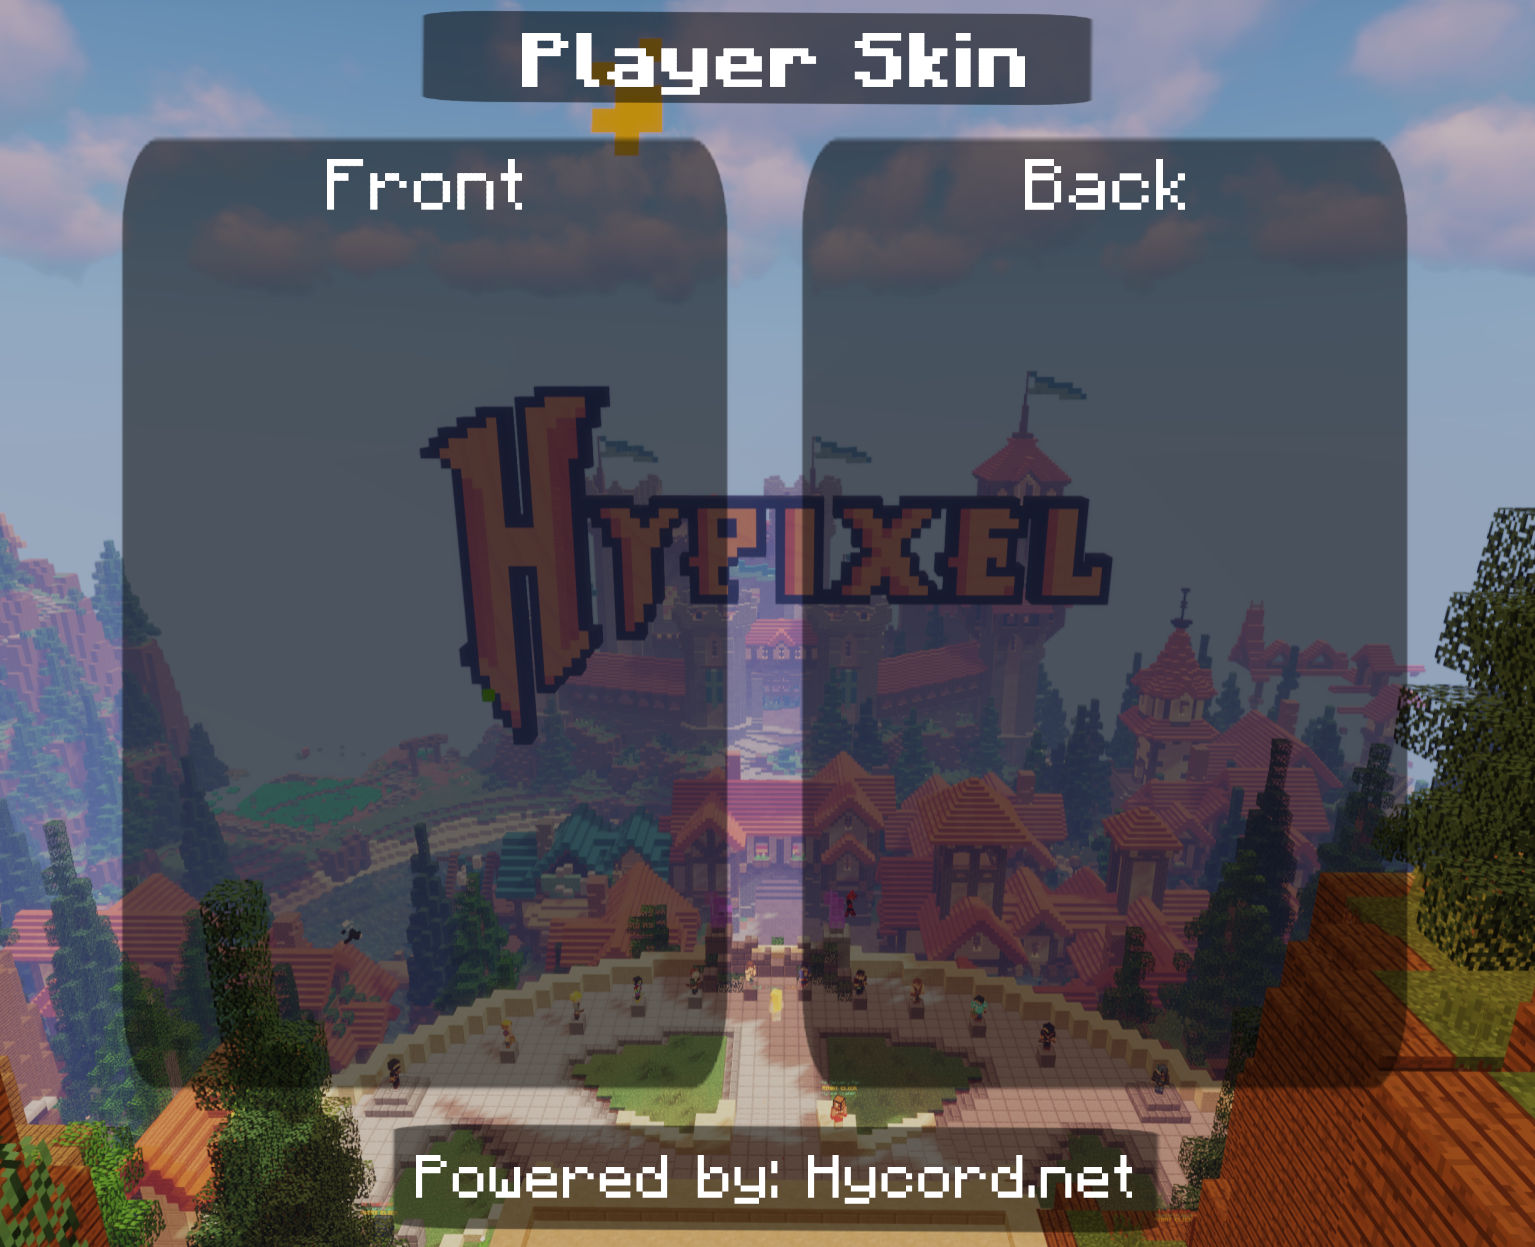
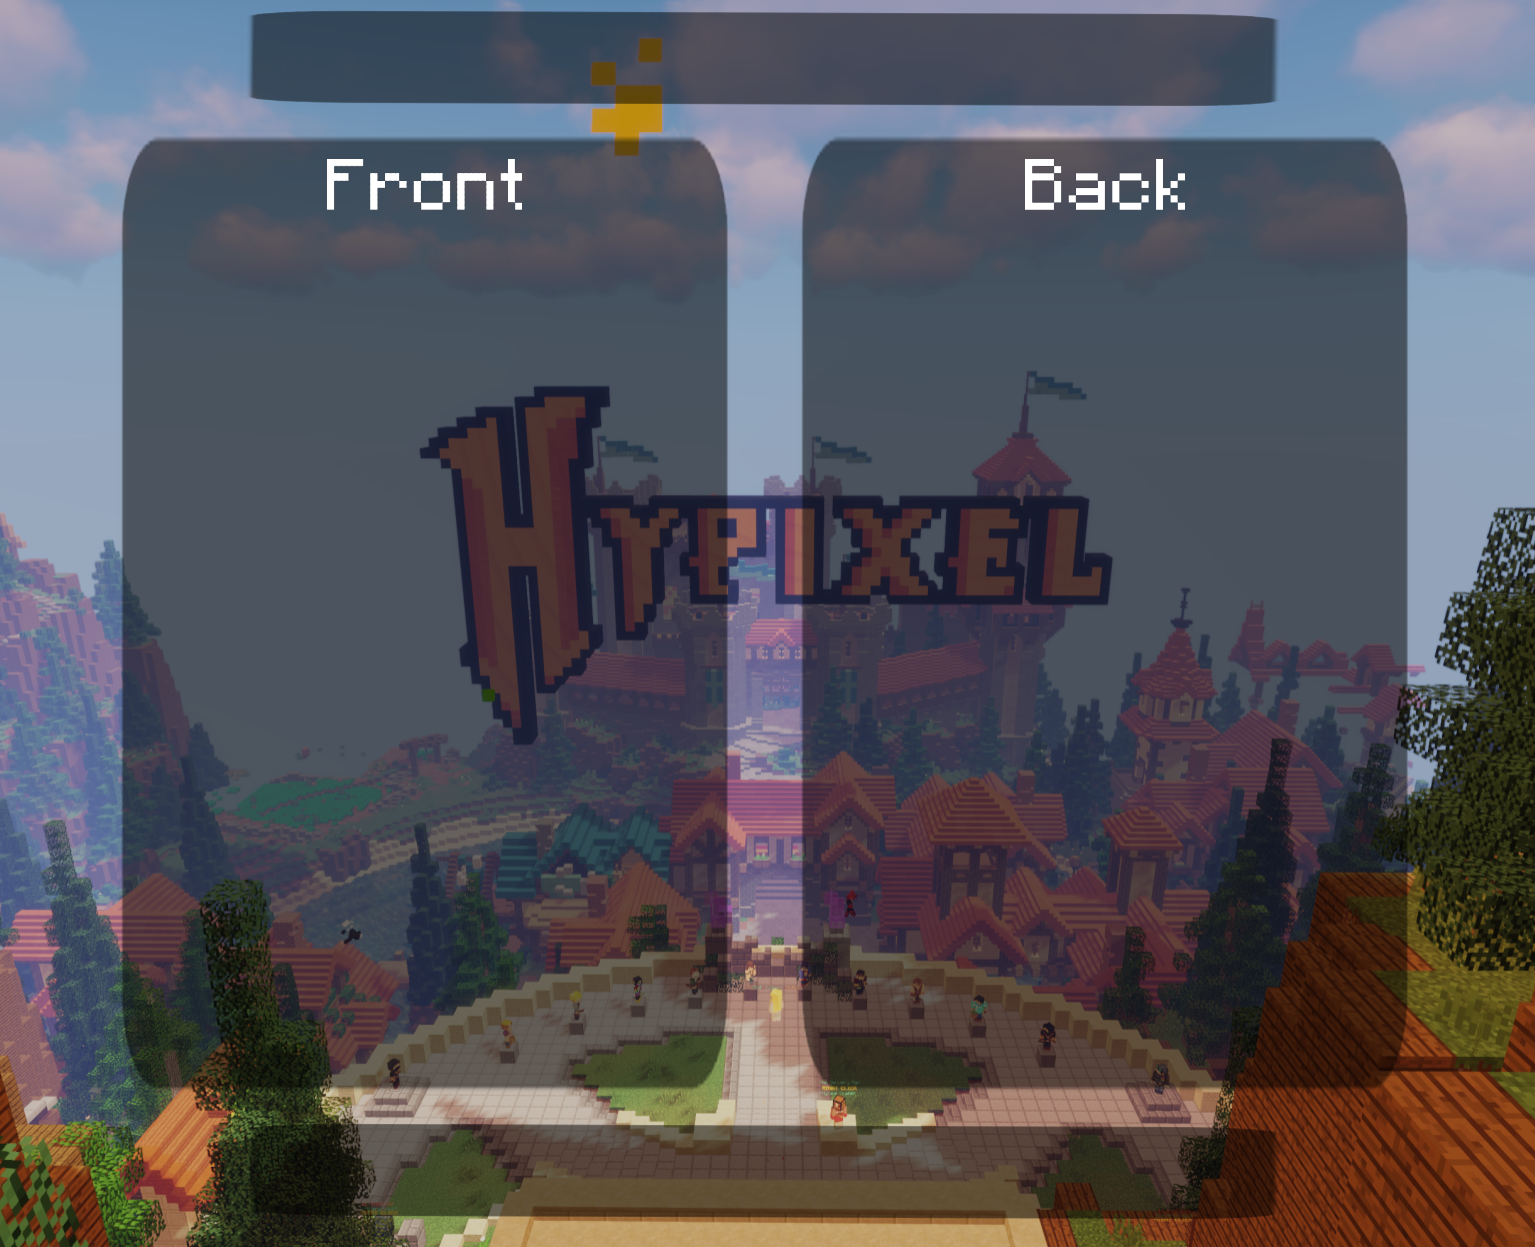
Updated skin picture command and also added a new skin downloader command

diff --git a/commands/player_skin.py b/commands/player_skin.py
@@ -7,7 +7,7 @@ import json
 import os
 from discord.ext.commands import cooldown, BucketType
 from dotenv import load_dotenv
-from PIL import Image
+from PIL import Image, ImageFont, ImageDraw
 from io import BytesIO
 import requests
 
@@ -17,7 +17,9 @@ with open('config.json') as json_file:
     data = json.load(json_file)
     
 
-embed_color = int(data["general"]["embed_color"].strip("#"), 16) #convert hex color to hexadecimal format
+embed_color = int(data["general"]["embed_color"].strip("#"), 16) 
+font_title = ImageFont.truetype("./assets/fonts/Minecraft.ttf", 60)
+font_footer = ImageFont.truetype("./assets/fonts/Minecraft.ttf", 45)
     
 
 class minecraft_skin(commands.Cog):
@@ -25,19 +27,18 @@ class minecraft_skin(commands.Cog):
         self.client = client
         self.data = {}
             
-    #bedwars stats command
+    # playerskin
     @commands.hybrid_command(aliases=["playerskin"], brief="skin [Minecraft IGN]", description="Displays the skin of the specified player", with_app_command=True)
     @commands.cooldown(1, 10, commands.BucketType.user) # 1 use for every 10 seconds.
     async def skin(self, ctx, *, username):
         
-        
-        try:
+        try:            
             url = f"https://api.mojang.com/users/profiles/minecraft/{username}?"
             response = requests.get(url)
             uuid = response.json()['id']
             
 
-            front_skin_url = f"https://starlightskins.lunareclipse.studio/skin-render/default/{uuid}/full"
+            front_skin_url = f"https://visage.surgeplay.com/full/832/{uuid}.png?no=cape"
             back_skin_url = f"https://visage.surgeplay.com/full/832/{uuid}.png?no=cape&y=140"
 
             background_image = Image.open("./assets/backgrounds/player_skin.png")
@@ -48,33 +49,36 @@ class minecraft_skin(commands.Cog):
             back_response = requests.get(back_skin_url)
             back_skin = Image.open(BytesIO(back_response.content))
 
-            max_width = 600  
-            max_height = 800  
-            # Resize the download img
-            front_skin.thumbnail((max_width, max_height))
+            # front_skin.thumbnail((600, 800)) # resize
+            
+            # Calculate the center x-coordinate for text
+            image_width, _ = background_image.size
+            text1 = f"{username}'s Skin"
+            text2 = f"\u00A9 {ctx.guild.name} | Powered by: Hycord.net"
+
+            draw = ImageDraw.Draw(background_image)
+
+            _, _, text1_width, _ = draw.textbbox((0, 0), text1, font=font_title)
+            _, _, text2_width, _ = draw.textbbox((0, 0), text2, font=font_footer)
+
+            center_x1 = (image_width - text1_width) // 2
+            center_x2 = (image_width - text2_width) // 2
 
             # Paste the downloaded image onto the background
-            background_image.paste(front_skin, (220, 250), front_skin)
+            background_image.paste(front_skin, (180, 235), front_skin)
             background_image.paste(back_skin, (850, 235), back_skin)
-
-            # Save the resulting image
-            background_image.save("./assets/example_outputs/player_skin.png")
-
-            """
-            embed = discord.Embed(
-                title = f"🔗  |  {username}\'s download link",
-                url = f"https://crafatar.com/skins/{uuid}",
-                color = embed_color
-            )
-            embed.timestamp = datetime.datetime.now()
-            #embed.set_image(url=f"https://visage.surgeplay.com/full/832/{uuid}.png?no=ears,cape&y=-40")
-            embed.set_footer(text = f"Requested by {ctx.author}", icon_url=ctx.author.avatar.url)
-            await ctx.send(embed=embed)
-            """
             
-            await ctx.send(file=discord.File("./assets/example_outputs/player_skin.png"))
+            draw = ImageDraw.Draw(background_image)
+            draw.text((center_x1,40), text1, (255, 255, 255), font=font_title)
+            draw.text((center_x2,1150), text2, (255, 255, 255), font=font_footer)
+
+            background_image.save("./assets/outputs/player_skin.png") # save the img
+
+            await ctx.send(f"Use `/skindownload {username}` for skin download.", file=discord.File("./assets/outputs/player_skin.png"))
+            
         except Exception as e:
             error_message = str(e)
+            print(error_message)
             embed = discord.Embed(
                 title = f"Username does not exist",
                 url = f"https://mcchecker.net/",
@@ -84,7 +88,43 @@ class minecraft_skin(commands.Cog):
             embed.timestamp = datetime.datetime.now()
             embed.set_footer(text = f"Requested by {ctx.author}", icon_url=ctx.author.avatar.url)
             
-            await ctx.send(error_message)
+            await ctx.send(embed=embed)
+            
+            
+            
+    # player skin download feature
+    @commands.hybrid_command(aliases=["downloadskin"], brief="skindownload [Minecraft IGN]", description="Downloads a specific player's skin", with_app_command=True)
+    @commands.cooldown(1, 10, commands.BucketType.user) # 1 use for every 10 seconds.
+    async def skindownload(self, ctx, *, username):
+        
+        try:            
+            url = f"https://api.mojang.com/users/profiles/minecraft/{username}?"
+            response = requests.get(url)
+            uuid = response.json()['id']
+
+            # await ctx.send(f"https://crafatar.com/skins/{uuid}")
+            
+            
+            embed = discord.Embed(
+                description=f"[Download Link](https://crafatar.com/skins/{uuid})",
+                color = embed_color
+            )
+            embed.set_image(url=f"https://crafatar.com/skins/{uuid}")
+            await ctx.send(embed=embed)
+            
+        except Exception as e:
+            error_message = str(e)
+            print(error_message)
+            embed = discord.Embed(
+                title = f"Username does not exist",
+                url = f"https://mcchecker.net/",
+                description = f"Username: `{username}`\n\nThe username you have entered does not exist. Please check your spelling and try again. (You can use https://mcchecker.net/ to validate the username)",
+                color = embed_color
+            )
+            embed.timestamp = datetime.datetime.now()
+            embed.set_footer(text = f"Requested by {ctx.author}", icon_url=ctx.author.avatar.url)
+            
+            await ctx.send(embed=embed)
         
 async def setup(client):
     await client.add_cog(minecraft_skin(client))     
